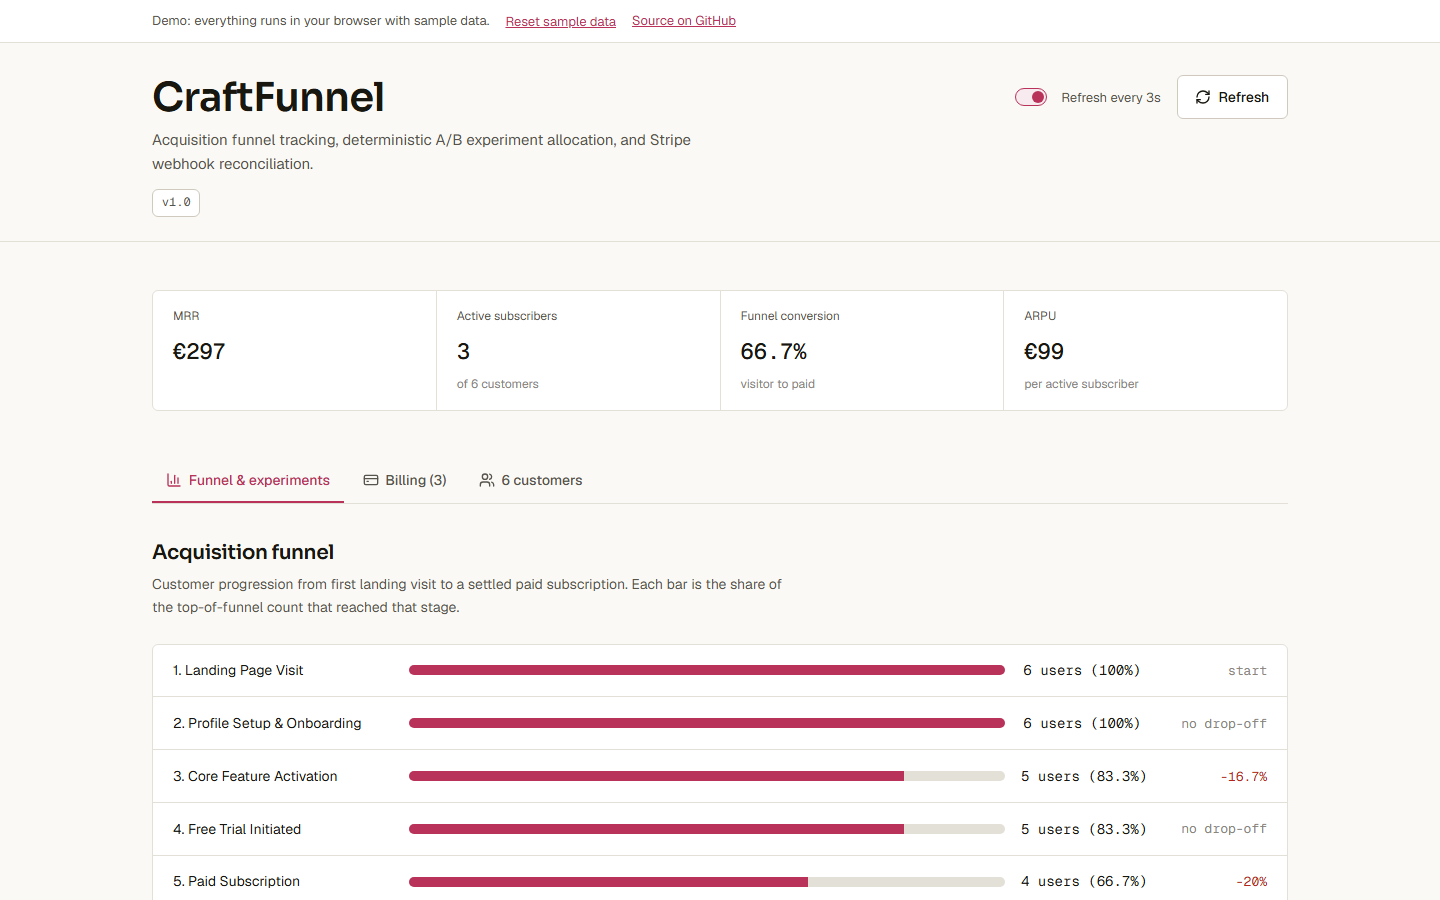
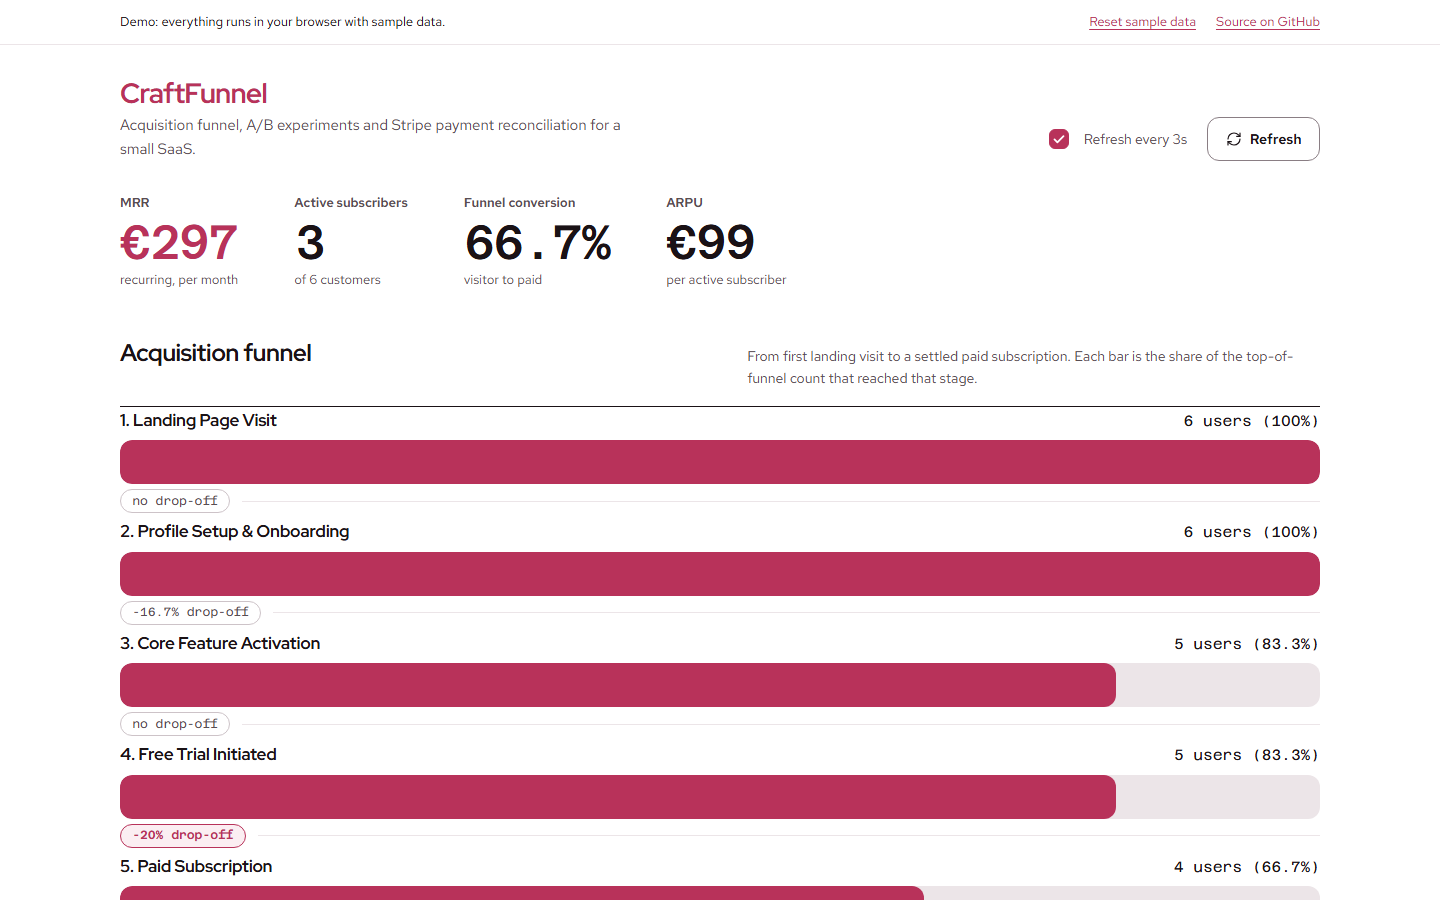
Refine funnel spacing, add metric notes, refresh screenshots and docs

diff --git a/client/src/App.css b/client/src/App.css
@@ -48,7 +48,7 @@ code {
 }
 
 .muted {
-  color: var(--ink-3);
+  color: var(--ink-2);
 }
 
 .sr-only {
@@ -87,7 +87,6 @@ code {
 .demo-bar-inner,
 .header-inner,
 .app-main,
-.app-footer,
 .alert {
   width: 100%;
   max-width: calc(1200px + 2 * var(--page-pad));
@@ -366,7 +365,7 @@ select.form-input {
 .numerals {
   display: flex;
   flex-wrap: wrap;
-  align-items: flex-end;
+  align-items: flex-start;
   gap: 1rem 3.5rem;
 }
 
@@ -397,7 +396,7 @@ select.form-input {
 
 .numeral-note {
   font-size: 13px;
-  color: var(--ink-3);
+  color: var(--ink-2);
 }
 
 /* ---- Funnel hero ---- */
@@ -430,7 +429,7 @@ select.form-input {
   display: flex;
   align-items: center;
   gap: 0.75rem;
-  height: 40px;
+  height: 34px;
 }
 
 .stage-gap::after {
@@ -483,7 +482,7 @@ select.form-input {
 }
 
 .stage-track {
-  height: 52px;
+  height: 44px;
   border-radius: var(--radius);
   background-color: var(--rule);
   overflow: hidden;
@@ -611,7 +610,7 @@ select.form-input {
 
 .experiment-key {
   font-size: 12px;
-  color: var(--ink-3);
+  color: var(--ink-2);
 }
 
 .experiment-description {
@@ -669,7 +668,7 @@ select.form-input {
 }
 
 .stat-dim {
-  color: var(--ink-3);
+  color: var(--ink-2);
   font-size: 12px;
 }
 
@@ -733,8 +732,7 @@ select.form-input {
 /* ---- Billing: webhook strip above the ledger ---- */
 
 .webhook-strip {
-  padding: 1.5rem 0;
-  border-top: 1px solid var(--ink);
+  padding: 0 0 1.5rem;
   border-bottom: 1px solid var(--rule-strong);
 }
 
@@ -838,7 +836,7 @@ select.form-input {
   width: 8px;
   height: 8px;
   border-radius: 50%;
-  background-color: var(--ink-3);
+  background-color: var(--ink-2);
 }
 
 .status-dot.ok {
@@ -885,7 +883,7 @@ select.form-input {
   position: absolute;
   left: 0.85rem;
   top: 14px;
-  color: var(--ink-3);
+  color: var(--ink-2);
 }
 
 .search-field input {
@@ -1009,7 +1007,7 @@ select.form-input {
 .allocation-key {
   margin-left: 0.6rem;
   font-size: 12px;
-  color: var(--ink-3);
+  color: var(--ink-2);
 }
 
 .allocation-tags {
@@ -1048,12 +1046,15 @@ select.form-input {
 .event-time {
   font-family: var(--font-mono);
   font-size: 12px;
-  color: var(--ink-3);
+  color: var(--ink-2);
 }
 
 /* ---- Footer ---- */
 
 .app-footer {
+  width: min(100% - 2 * var(--page-pad), 1200px);
+  padding-inline: 0;
+  margin: 0 auto;
   display: flex;
   align-items: center;
   justify-content: space-between;
@@ -1133,4 +1134,15 @@ select.form-input {
   * {
     transition: none !important;
   }
+}
+
+button,
+input,
+select,
+textarea {
+  font-family: inherit;
+}
+
+::placeholder {
+  color: var(--ink-3);
 }

diff --git a/client/src/test/App.test.tsx b/client/src/test/App.test.tsx
@@ -117,6 +117,16 @@ describe('CraftFunnel Frontend Dashboard', () => {
     });
   });
 
+  it('shows a drop-off chip between funnel stages and the experiments tab count', async () => {
+    render(<App />);
+
+    await waitFor(() => {
+      expect(screen.getByText('-20% drop-off')).toBeInTheDocument();
+      expect(screen.getAllByText('no drop-off').length).toBe(2);
+      expect(screen.getByRole('tab', { name: 'Experiments (1)' })).toHaveAttribute('aria-selected', 'true');
+    });
+  });
+
   it('renders an A/B experiment row with statistical significance', async () => {
     render(<App />);
 

diff --git a/client/src/components/StatsBar.tsx b/client/src/components/StatsBar.tsx
@@ -16,6 +16,7 @@ export const StatsBar: React.FC<StatsBarProps> = ({ metrics }) => {
       <div className="numeral">
         <dt>MRR</dt>
         <dd className="numeral-value">&euro;{metrics.mrr_eur.toLocaleString()}</dd>
+        <dd className="numeral-note">recurring, per month</dd>
       </div>
 
       <div className="numeral">

diff --git a/README.md b/README.md
@@ -14,10 +14,11 @@ The demo runs entirely in your browser: the same funnel and experiment math the 
 
 ![Funnel and A/B experiment dashboard](docs/screenshots/01-dashboard.png)
 
-The dashboard is a flat, light-paper interface: a stats strip up top, the acquisition funnel as a plain bar list with the
-real count and conversion rate in mono type beside each stage, and A/B experiments as a dense list with a narrow "test a
-user" column beside them. More screenshots: [Stripe webhook simulator and ledger](docs/screenshots/02-billing.png),
-[customer directory](docs/screenshots/03-customers.png).
+The dashboard is a growth chart room on pure white: one line of large numerals (MRR, active subscribers, conversion, ARPU)
+sits above the acquisition funnel, which fills the first screen as full-width stage bars with the real count, conversion
+rate and a drop-off chip between stages. Experiments, Billing and Customers are underline tabs below the funnel. More
+screenshots: [Stripe webhook simulator and ledger](docs/screenshots/02-billing.png),
+[customer directory](docs/screenshots/03-customers.png), [phone width](docs/screenshots/04-dashboard-mobile.png).
 
 ## Features
 

diff --git a/CHANGELOG.md b/CHANGELOG.md
@@ -4,6 +4,14 @@ All notable changes to this project are documented in this file.
 
 The format is based on [Keep a Changelog](https://keepachangelog.com/en/1.1.0/).
 
+## [Unreleased]
+
+### Changed
+- New visual identity: pure white pages with a single raspberry accent, Red Hat Display, Red Hat Text and Azeret Mono type, and 12px rounded bars and controls.
+- The acquisition funnel is now the hero of the page, drawn as full-width stage bars with a drop-off chip between stages. The key metrics are one line of large numerals above it instead of a strip.
+- Experiments, Billing and Customers moved into underline tabs below the funnel. The webhook form is a single row above the payment ledger, and experiment variants show a small conversion-rate bar.
+- Every control is at least 44px tall at phone width, including the demo bar links and the refresh checkbox.
+
 ## [1.0.0] - 2026-09-15
 
 ### Added
